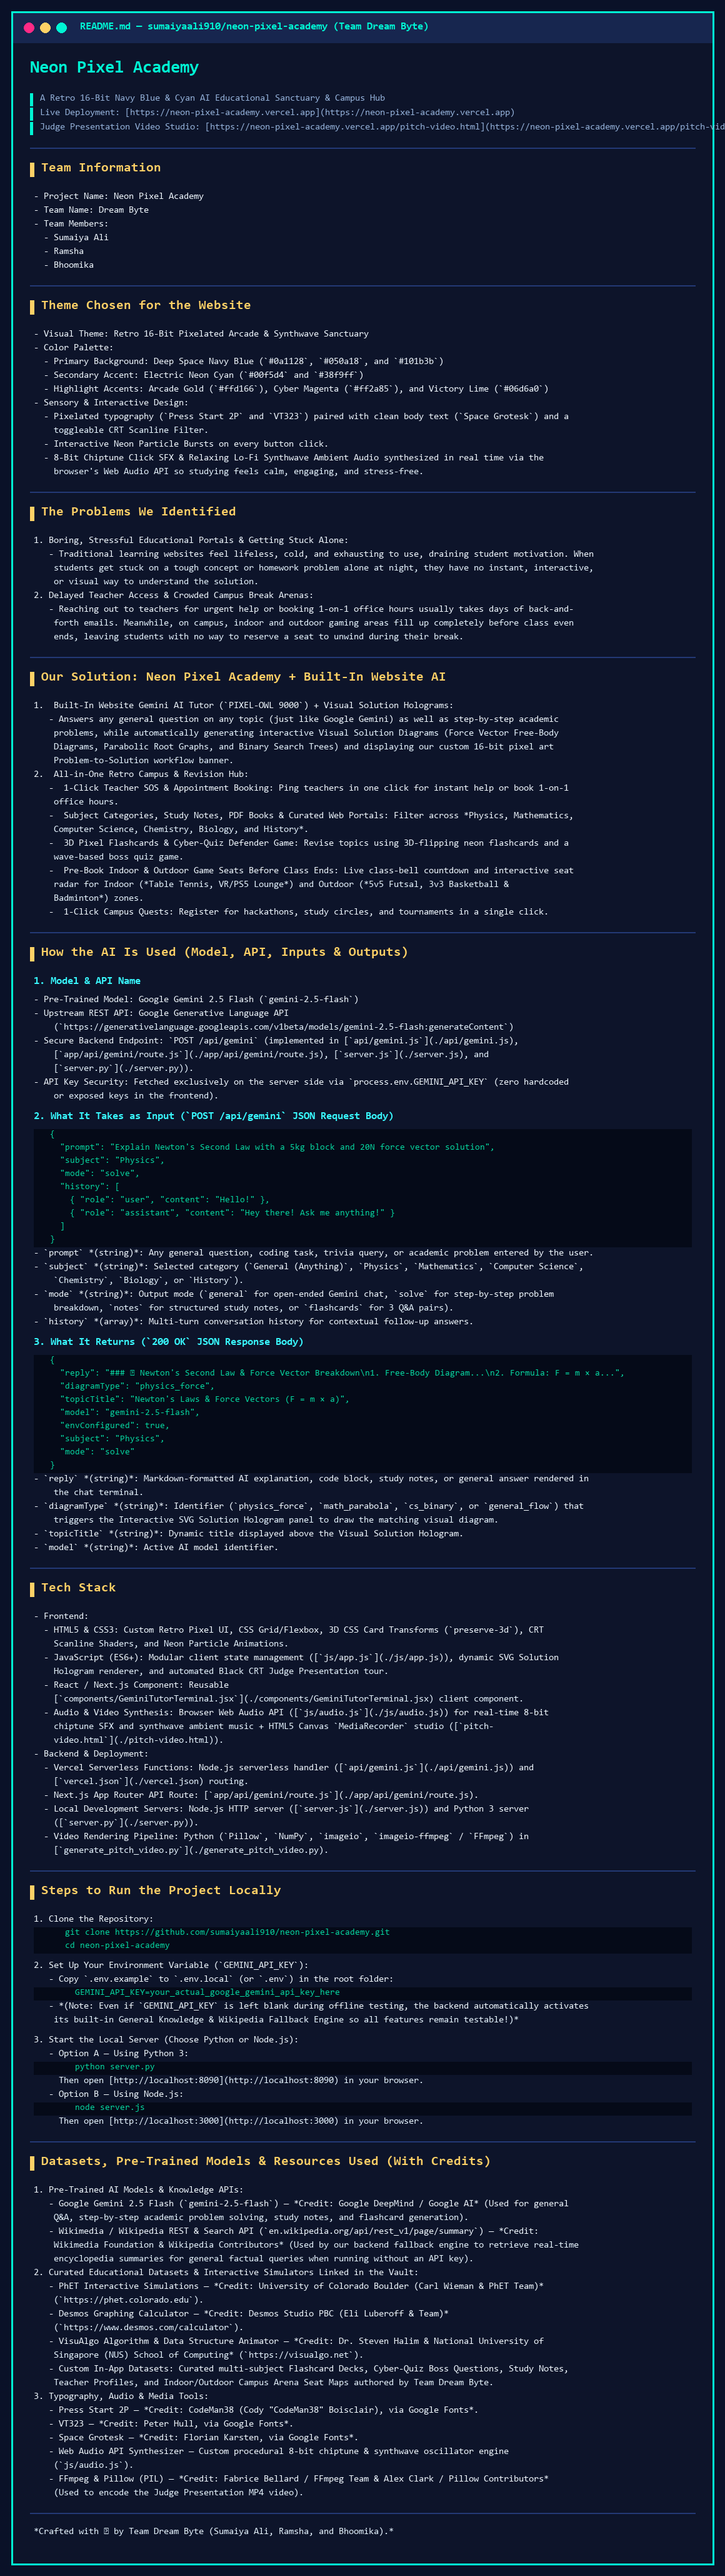
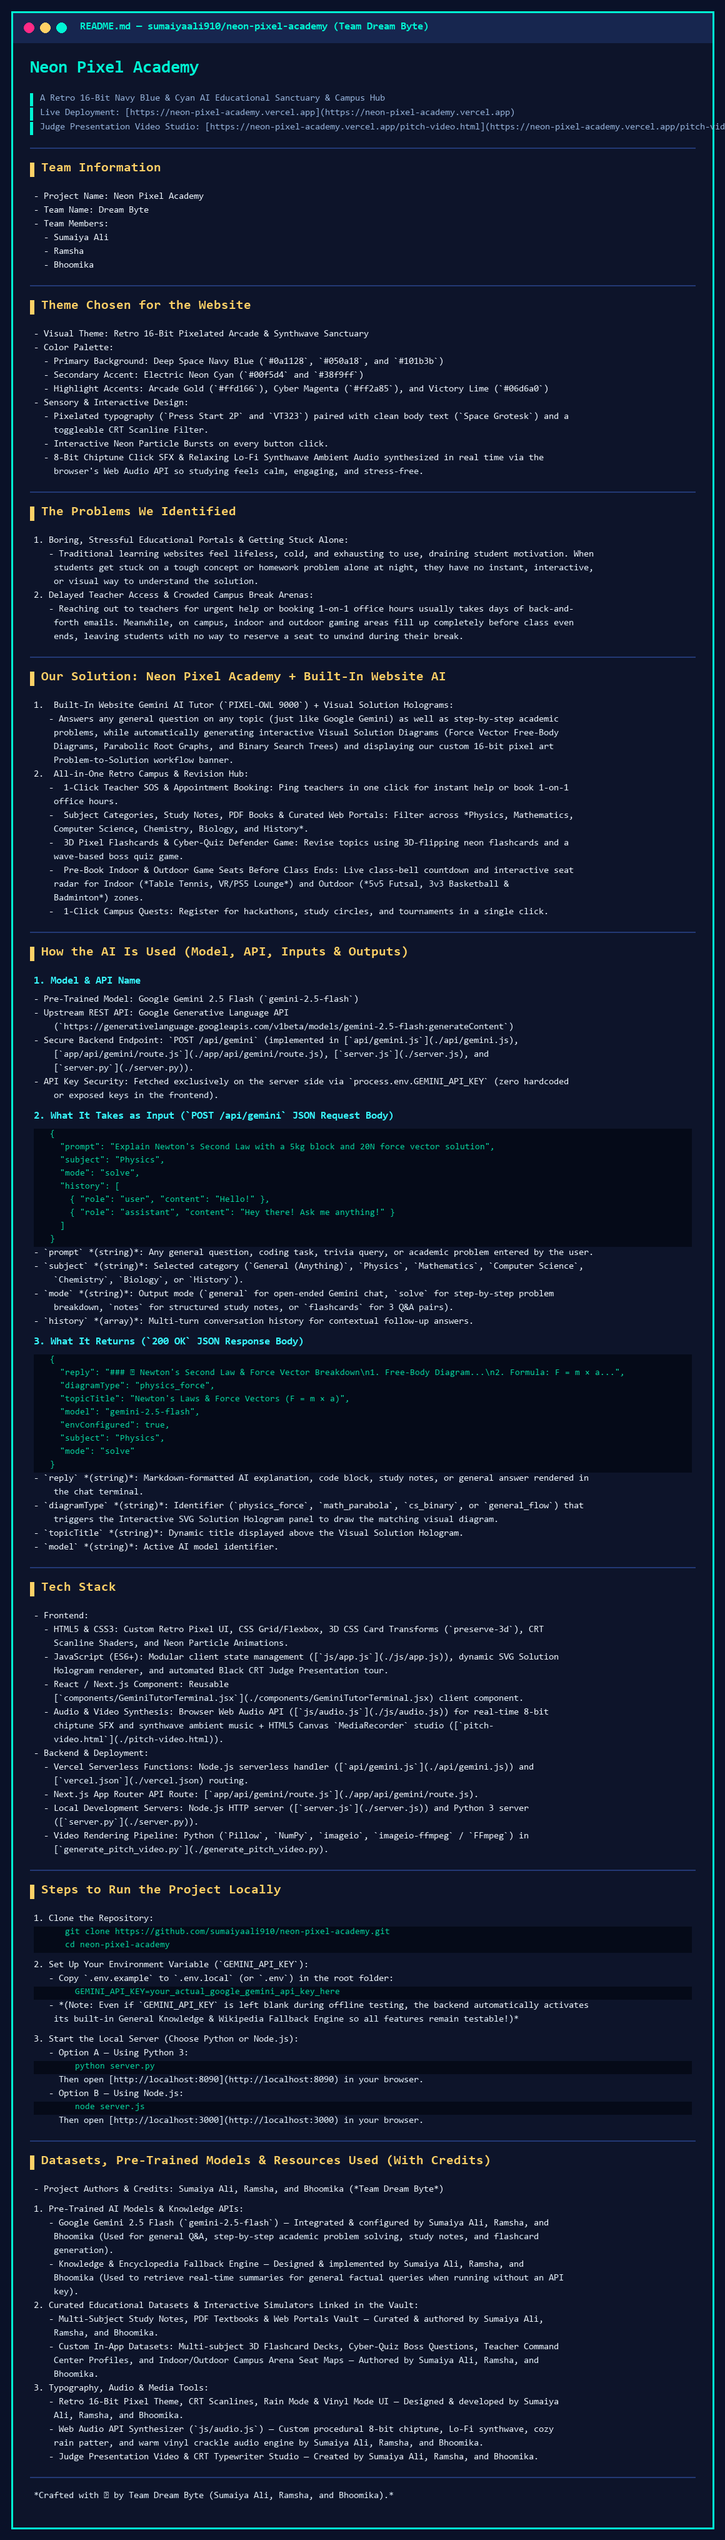
Update author credits in README.md to Sumaiya Ali, Ramsha, and Bhoomika

diff --git a/README.md b/README.md
@@ -143,20 +143,18 @@
 
 ## 📚 Datasets, Pre-Trained Models & Resources Used (With Credits)
 
+- **Project Authors & Credits**: **Sumaiya Ali, Ramsha, and Bhoomika** (*Team Dream Byte*)
+
 1. **Pre-Trained AI Models & Knowledge APIs**:
-   - **Google Gemini 2.5 Flash (`gemini-2.5-flash`)** — *Credit: Google DeepMind / Google AI* (Used for general Q&A, step-by-step academic problem solving, study notes, and flashcard generation).
-   - **Wikimedia / Wikipedia REST & Search API** (`en.wikipedia.org/api/rest_v1/page/summary`) — *Credit: Wikimedia Foundation & Wikipedia Contributors* (Used by our backend fallback engine to retrieve real-time encyclopedia summaries for general factual queries when running without an API key).
+   - **Google Gemini 2.5 Flash (`gemini-2.5-flash`)** — Integrated & configured by **Sumaiya Ali, Ramsha, and Bhoomika** (Used for general Q&A, step-by-step academic problem solving, study notes, and flashcard generation).
+   - **Knowledge & Encyclopedia Fallback Engine** — Designed & implemented by **Sumaiya Ali, Ramsha, and Bhoomika** (Used to retrieve real-time summaries for general factual queries when running without an API key).
 2. **Curated Educational Datasets & Interactive Simulators Linked in the Vault**:
-   - **PhET Interactive Simulations** — *Credit: University of Colorado Boulder (Carl Wieman & PhET Team)* (`https://phet.colorado.edu`).
-   - **Desmos Graphing Calculator** — *Credit: Desmos Studio PBC (Eli Luberoff & Team)* (`https://www.desmos.com/calculator`).
-   - **VisuAlgo Algorithm & Data Structure Animator** — *Credit: Dr. Steven Halim & National University of Singapore (NUS) School of Computing* (`https://visualgo.net`).
-   - **Custom In-App Datasets**: Curated multi-subject Flashcard Decks, Cyber-Quiz Boss Questions, Study Notes, Teacher Profiles, and Indoor/Outdoor Campus Arena Seat Maps authored by **Team Dream Byte**.
+   - **Multi-Subject Study Notes, PDF Textbooks & Web Portals Vault** — Curated & authored by **Sumaiya Ali, Ramsha, and Bhoomika**.
+   - **Custom In-App Datasets**: Multi-subject 3D Flashcard Decks, Cyber-Quiz Boss Questions, Teacher Command Center Profiles, and Indoor/Outdoor Campus Arena Seat Maps — Authored by **Sumaiya Ali, Ramsha, and Bhoomika**.
 3. **Typography, Audio & Media Tools**:
-   - **Press Start 2P** — *Credit: CodeMan38 (Cody "CodeMan38" Boisclair), via Google Fonts*.
-   - **VT323** — *Credit: Peter Hull, via Google Fonts*.
-   - **Space Grotesk** — *Credit: Florian Karsten, via Google Fonts*.
-   - **Web Audio API Synthesizer** — Custom procedural 8-bit chiptune & synthwave oscillator engine (`js/audio.js`).
-   - **FFmpeg & Pillow (PIL)** — *Credit: Fabrice Bellard / FFmpeg Team & Alex Clark / Pillow Contributors* (Used to encode the Judge Presentation MP4 video).
+   - **Retro 16-Bit Pixel Theme, CRT Scanlines, Rain Mode & Vinyl Mode UI** — Designed & developed by **Sumaiya Ali, Ramsha, and Bhoomika**.
+   - **Web Audio API Synthesizer (`js/audio.js`)** — Custom procedural 8-bit chiptune, Lo-Fi synthwave, cozy rain patter, and warm vinyl crackle audio engine by **Sumaiya Ali, Ramsha, and Bhoomika**.
+   - **Judge Presentation Video & CRT Typewriter Studio** — Created by **Sumaiya Ali, Ramsha, and Bhoomika**.
 
 ---
 
